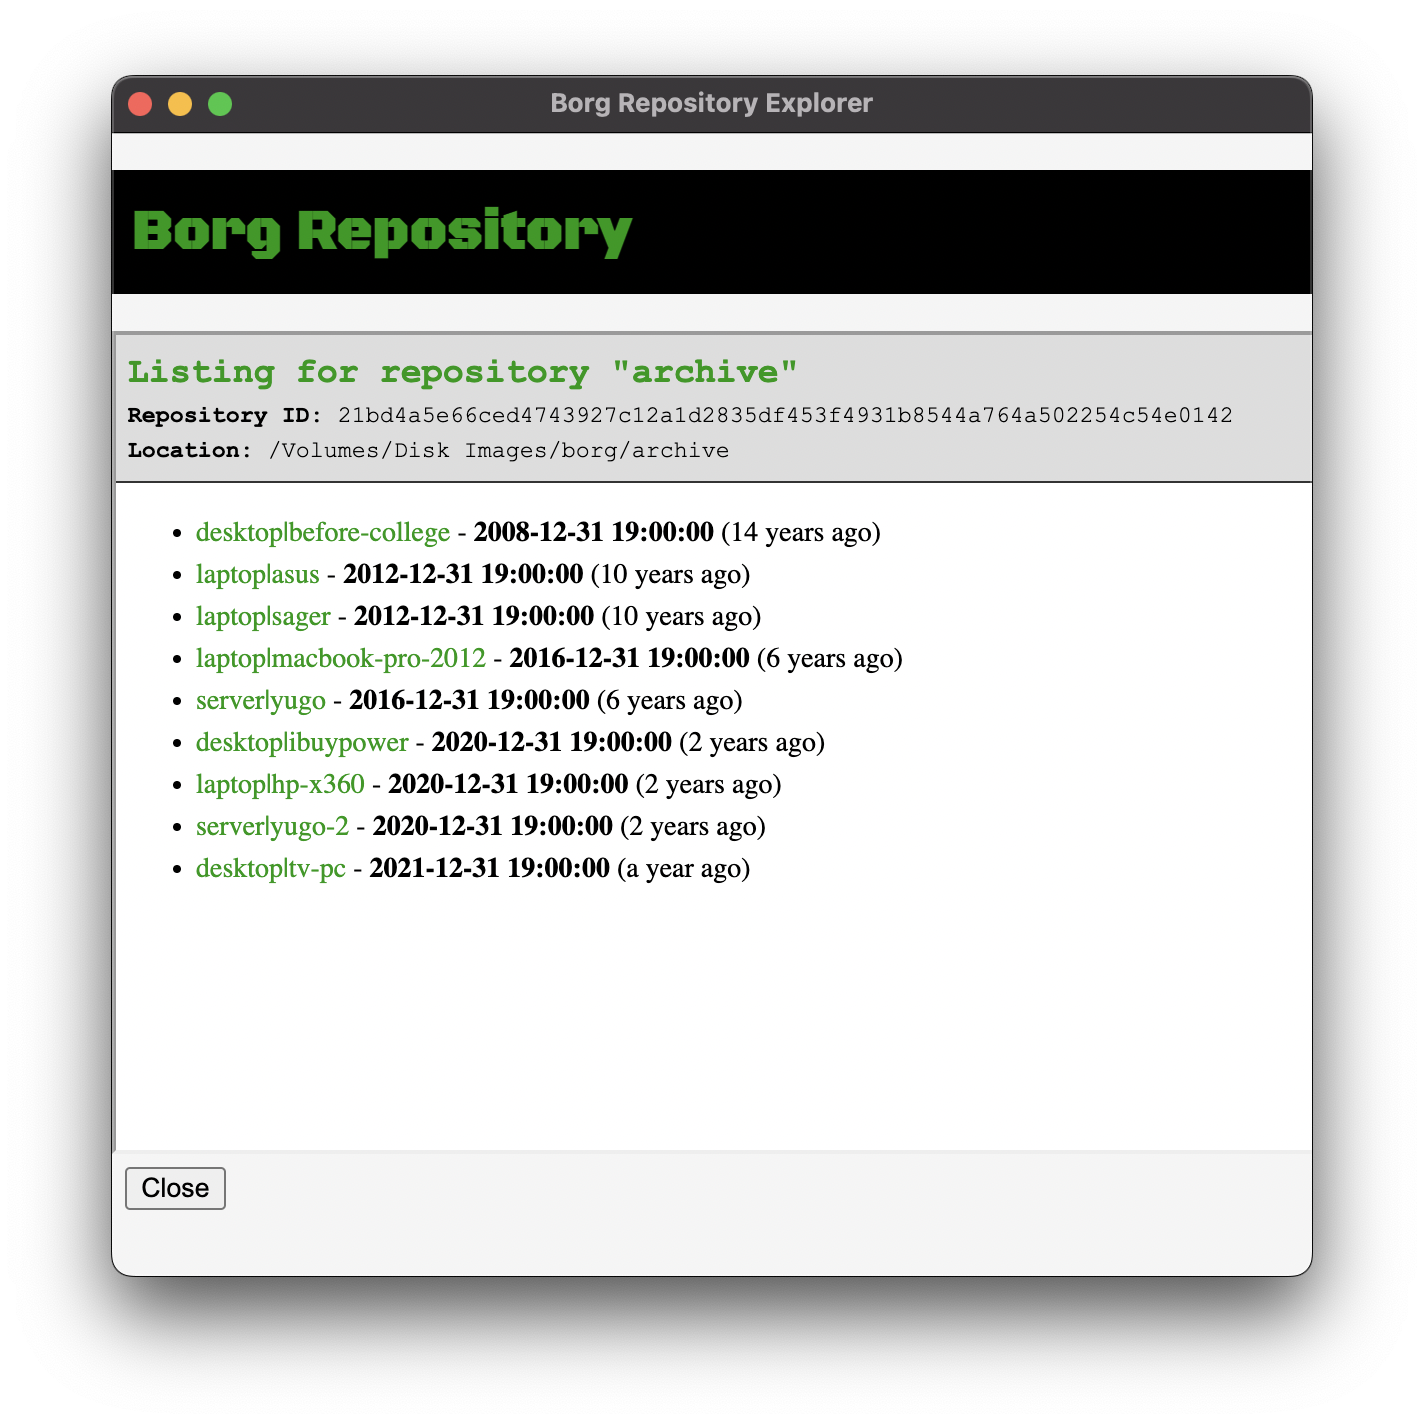
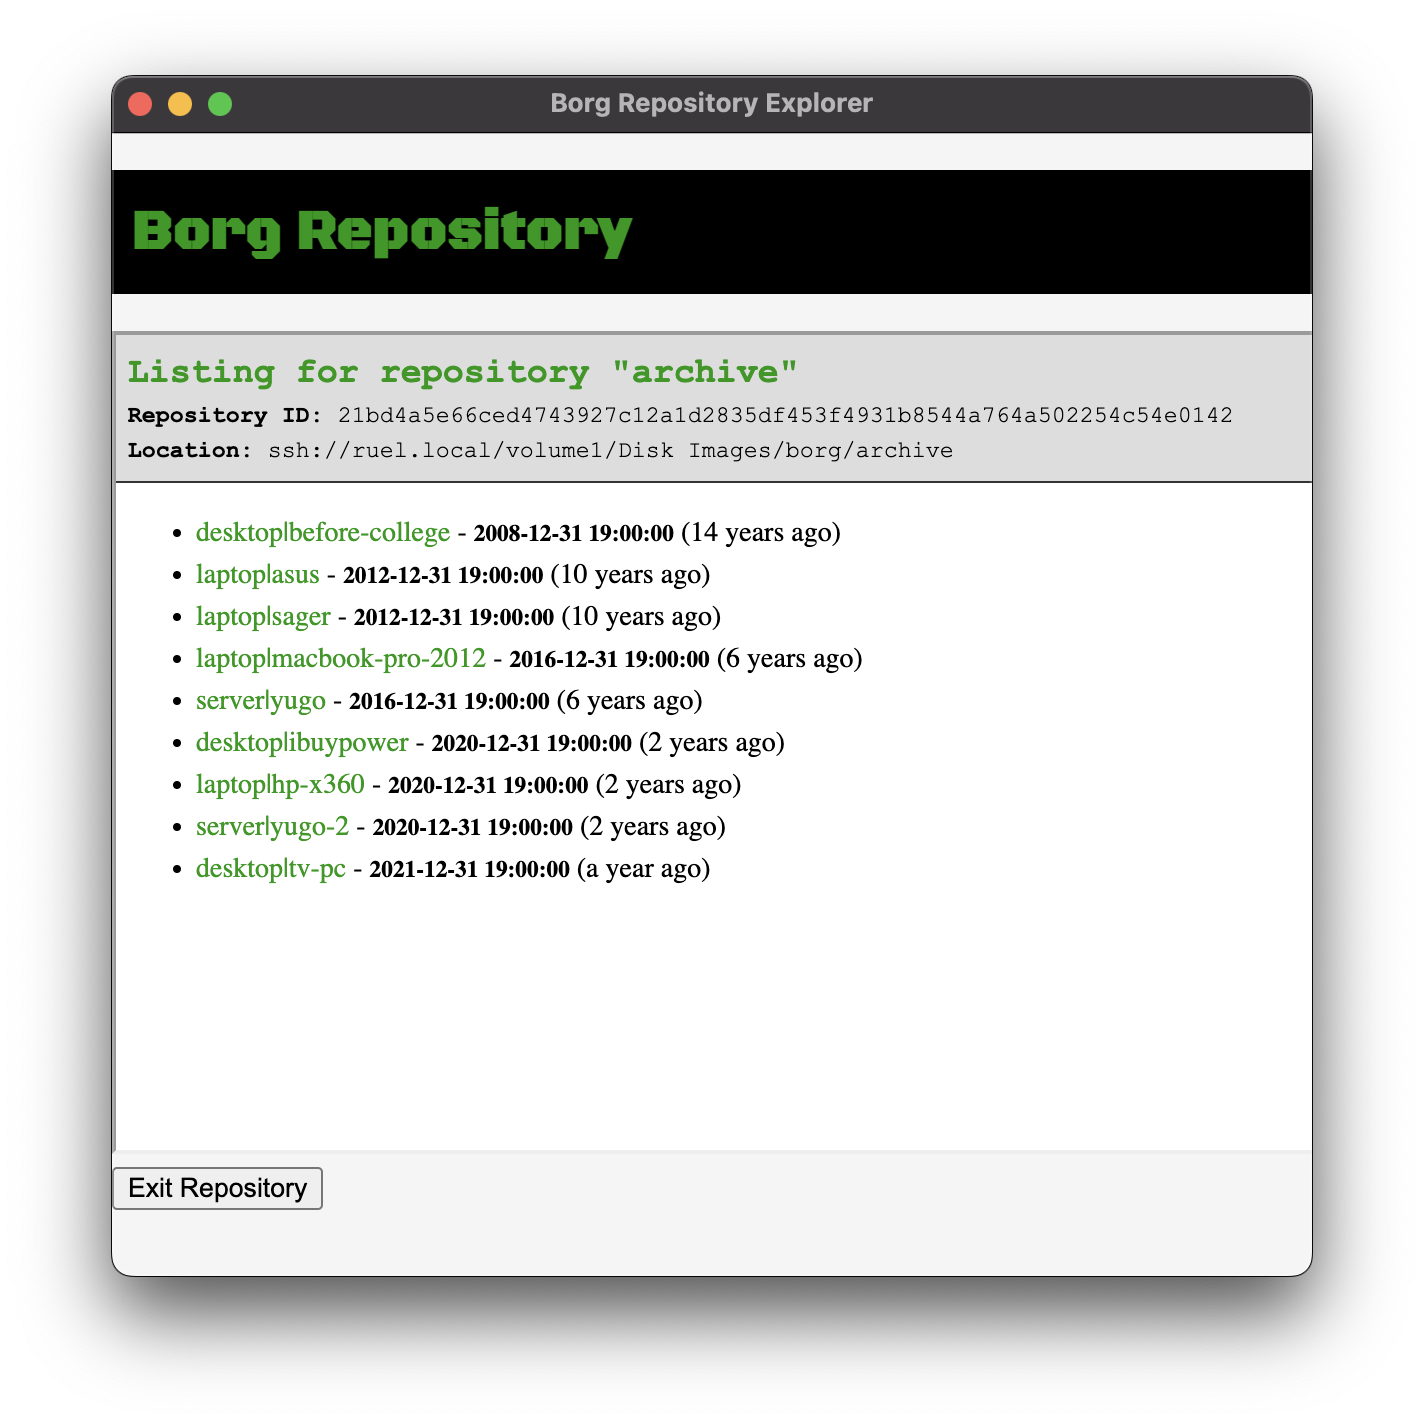
Update readme and images to show ssh support

diff --git a/readme.md b/readme.md
@@ -23,6 +23,9 @@ Still in development, functionality is rough. It's also very much "programmer ar
 * Viewing images contained within an archive.
 * Extracting files and directories from an archive.
   * Kind of clunky, files are extracted to the full subtree within the archive.
+* Very primitive settings menu for setting borg installation path.
+* SSH support
+  * Support for setting '--remote-path' via settings menu.
 
 ## Why?
 
